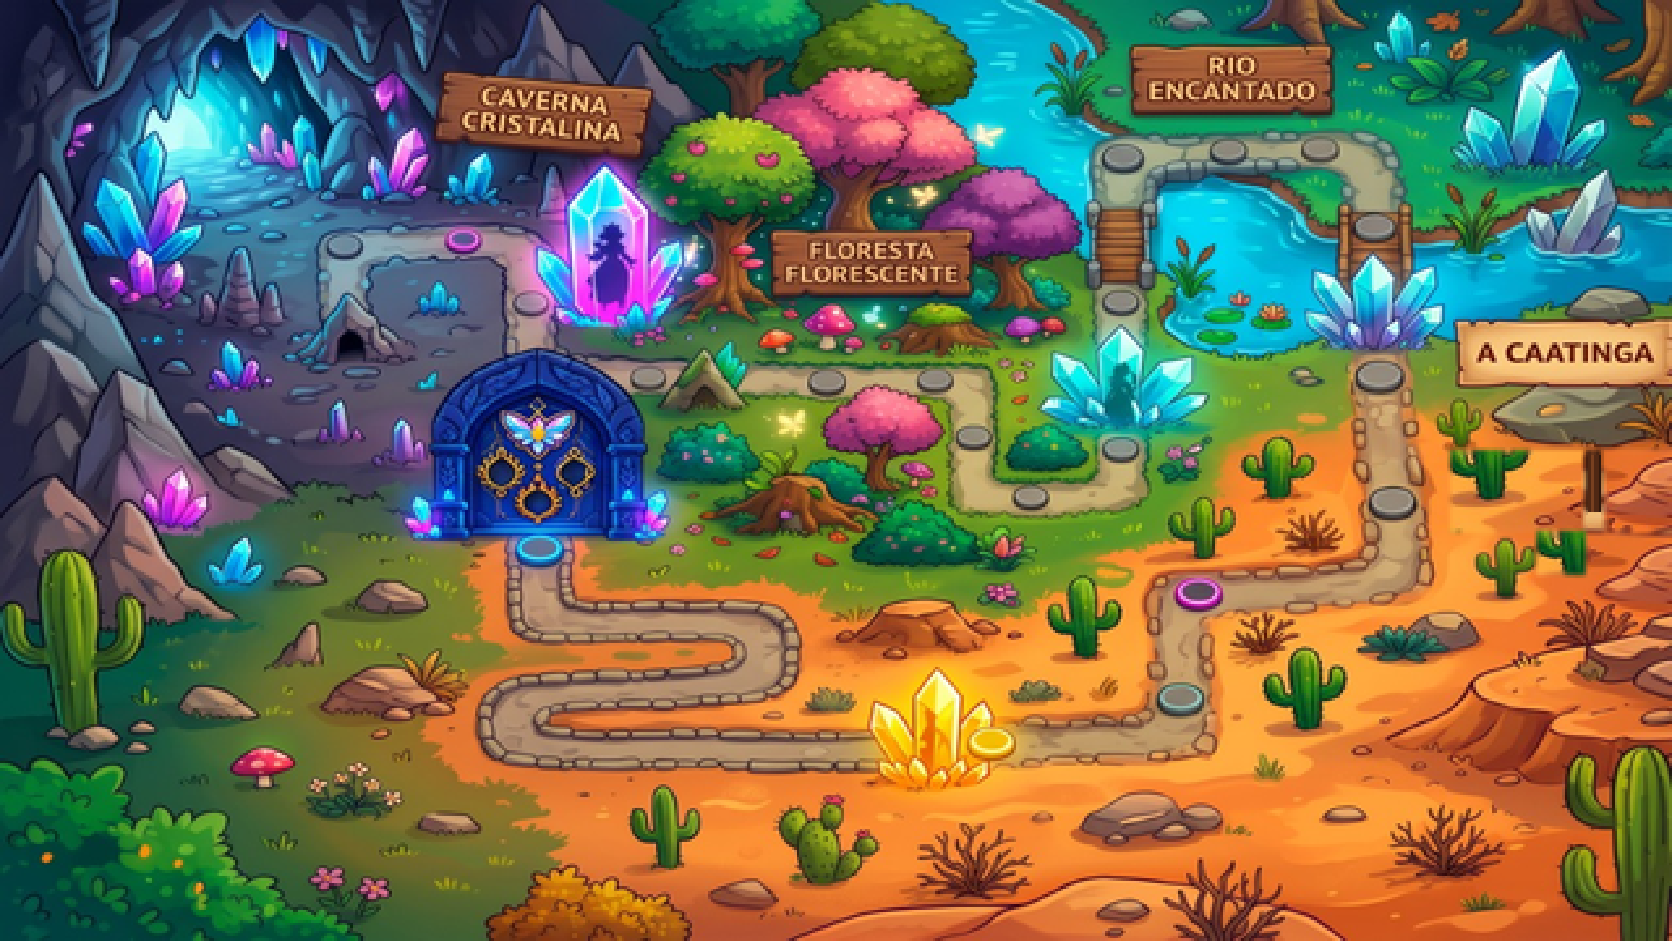
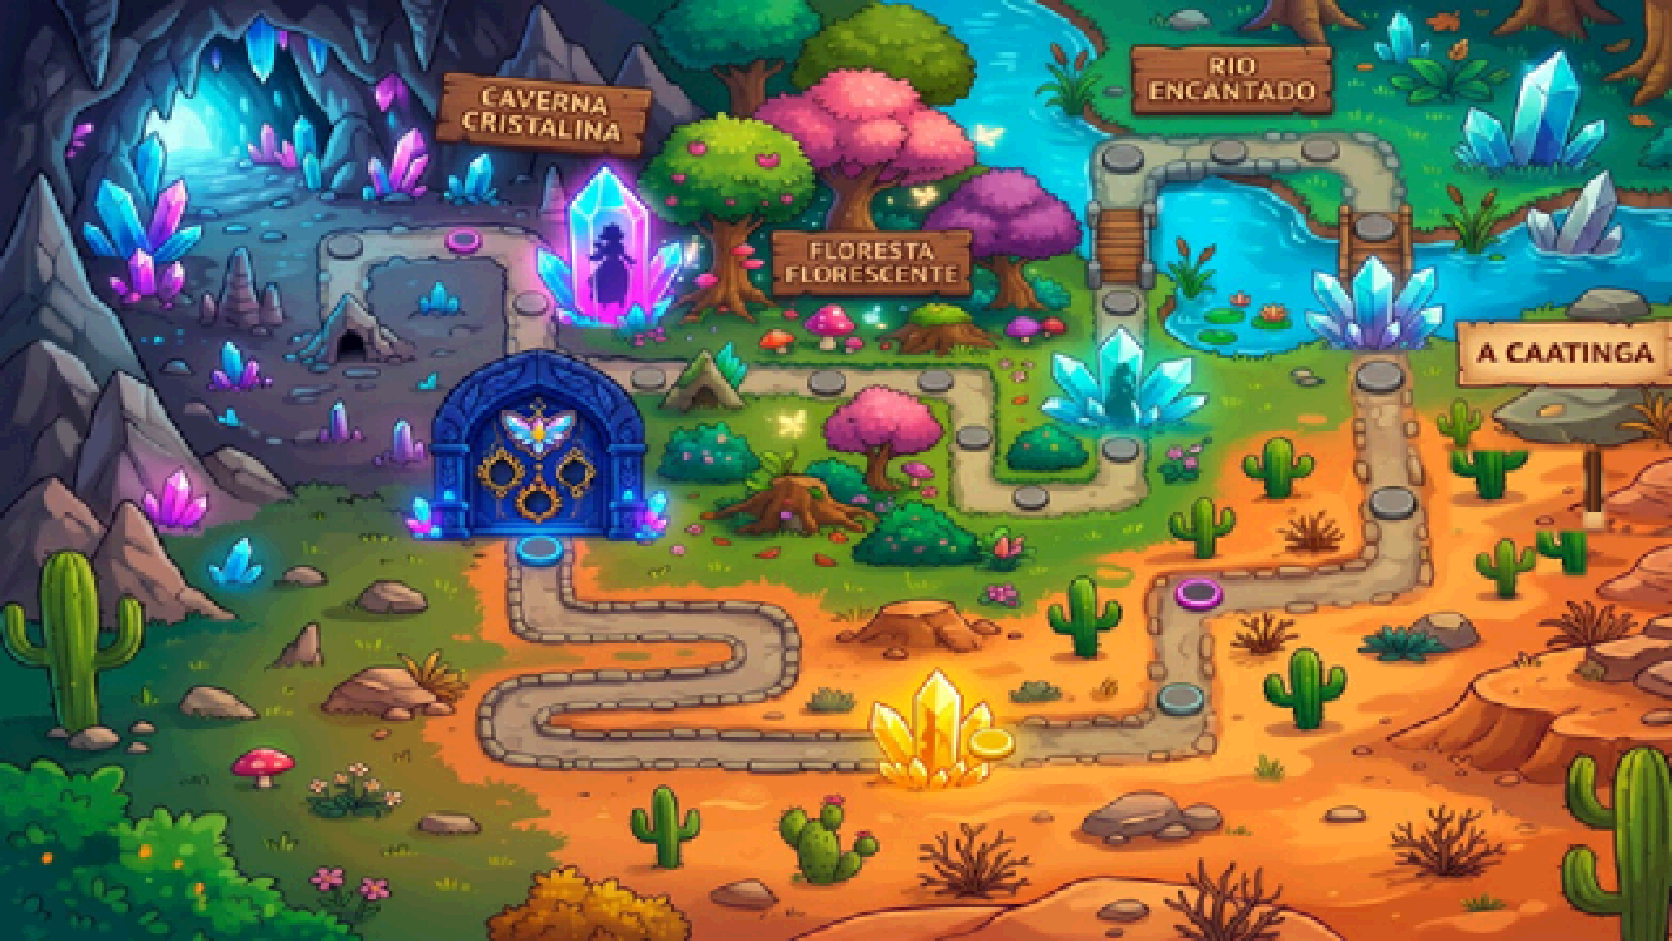
Mapa: remove marcadores e placas duplicadas, cobre tela inteira

diff --git a/css/journey.css b/css/journey.css
@@ -1,6 +1,6 @@
 .map-screen>.map-art,.map-screen>.map-shade,.map-screen>.route-wrap,.map-screen>.world-labels,.map-screen>.map-caption{display:none!important}
 .map-screen{background:#05030f;overflow:hidden;position:relative;width:100vw;height:100dvh}
-.journey-map{position:absolute;width:min(100vw,calc(100dvh * 1.77683));height:min(100dvh,calc(100vw / 1.77683));aspect-ratio:1672/941;left:50%;top:50%;transform:translate(-50%,-50%);background:url('../assets/story/interface-extra/mapa-sem-personagem.png') center/100% 100% no-repeat;image-rendering:pixelated;box-shadow:0 0 40px rgba(0,0,0,0.85)}
+.journey-map{position:absolute;width:max(100vw,calc(100dvh * 1.77683));height:max(100dvh,calc(100vw / 1.77683));aspect-ratio:1672/941;left:50%;top:50%;transform:translate(-50%,-50%);background:url('../assets/story/interface-extra/mapa-sem-personagem.png') center/100% 100% no-repeat;image-rendering:pixelated;box-shadow:0 0 40px rgba(0,0,0,0.85)}
 .journey-node{position:absolute;width:3.1%;min-width:24px;aspect-ratio:1;border:2px solid #a87ffb;border-radius:50%;background:radial-gradient(circle,#4b2685 0%,#1e0e3a 85%);box-shadow:0 0 8px rgba(168,127,251,0.75),inset 0 0 4px rgba(255,255,255,0.35);transform:translate(-50%,-50%);z-index:3;padding:0;pointer-events:auto;cursor:pointer;display:flex;align-items:center;justify-content:center;color:#ffffff;font-family:var(--game-font,'Fredoka',sans-serif);font-size:11px;font-weight:700;transition:transform .12s,box-shadow .12s,border-color .12s}
 .journey-node:before{content:attr(data-level);font-size:10px;font-weight:700;color:#ffffff;text-shadow:1px 1px 1px #000;line-height:1}
 .journey-node:active{transform:translate(-50%,-50%) scale(0.95)}
@@ -18,6 +18,7 @@
 @keyframes node-pulse{from{box-shadow:0 0 8px #ffea31,0 0 3px #fff}to{box-shadow:0 0 18px #ffea31,0 0 8px #fff}}
 .journey-fairy{position:absolute;width:5%;aspect-ratio:1;background:0 0/400% 200% no-repeat;image-rendering:pixelated;transform:translate(-50%,-105%);pointer-events:none;z-index:5;border-radius:45%;will-change:left,top;filter:drop-shadow(0 3px 4px #060b22)}
 .map-screen .screen-bar{position:absolute;top:0;left:0;right:0;z-index:10;pointer-events:none;padding:12px 24px;background:linear-gradient(180deg,rgba(8,15,37,0.78) 0%,rgba(8,15,37,0.3) 70%,transparent 100%)}.map-screen .screen-bar .square-button{pointer-events:auto}
+.map-screen.iris-entering .screen-bar .square-button{pointer-events:none}
 .map-caption{display:none!important}
 .journey-dialog{width:min(580px,94vw);aspect-ratio:1.5;border:0;background:transparent url('../assets/story/interface-extra/paineis-mundos.png') var(--panel-x) var(--panel-y)/200% 200%;padding:0;overflow:hidden;color:#ffffff;font-family:var(--game-font,'Fredoka',sans-serif);filter:drop-shadow(0 0 9px #a278bc);animation:panel-idle 3s ease-in-out infinite alternate}
 .journey-dialog::backdrop{background:#071023c9}
@@ -29,4 +30,4 @@
 .journey-begin{left:18%}.journey-back{right:17%}
 @keyframes panel-idle{to{filter:drop-shadow(0 0 15px #a278bc)}}
 .reduce-motion .journey-dialog{animation:none}
-@media(max-width:600px){.journey-map{width:100vw}.journey-dialog p{font-size:10px}.journey-node{min-width:20px}.map-caption{font-size:12px}}
+@media(max-width:600px){.journey-dialog p{font-size:10px}.journey-node{min-width:20px}.map-caption{font-size:12px}}

diff --git a/scripts/build_true_pixel_map.py b/scripts/build_true_pixel_map.py
@@ -1,4 +1,4 @@
-"""
+"""
 Build True Pixel Art Map for Sinfonia dos Cristais
 Converts the approved concept map into authentic 16-bit True Pixel Art:
 - SNES 15-bit color hardware depth emulation (5-bit RGB steps)
@@ -112,7 +112,7 @@ def render_wooden_plaque(draw, x, y, w, h, text, font_dict):
     ty = y + max(2, (h - 7) // 2)
     draw_pixel_text(draw, text, tx, ty, font_dict, TEXT_COLOR, TEXT_SHADOW)
 
-def process_map(input_path, output_path, native_640_path=None):
+def process_map(input_path, output_path, native_640_path=None, overlays=False):
     print(f"Loading input map: {input_path}")
     raw_img = Image.open(input_path).convert('RGB')
     
@@ -128,170 +128,173 @@ def process_map(input_path, output_path, native_640_path=None):
     draw = ImageDraw.Draw(base_img)
     font_dict = create_pixel_font_renderer()
 
-    # 2. Fix AI bizarreness and enhance fidelity:
-    # -------------------------------------------------------------
-    # 2A. Caatinga Sign Cleanup:
-    # In the concept image, there are two stacked "A CAATINGA" signs on the same pole.
-    # We clean up the lower duplicate sign by blending it into the sandstone cliff,
-    # and render a single crisp authentic wooden plaque for "A CAATINGA".
-    # Coordinates in 640x360:
-    # Upper sign: x ~ 535..615, y ~ 160..195
-    # Lower sign: x ~ 535..615, y ~ 230..265 (duplicate to remove)
+    # Overlays (placas duplicadas, marcadores de pedra, remendos) desativados por padrão:
+    # o mapa limpo usa apenas as placas e o caminho da arte original; os nós são HTML.
+    if overlays:
+        # 2. Fix AI bizarreness and enhance fidelity:
+        # -------------------------------------------------------------
+        # 2A. Caatinga Sign Cleanup:
+        # In the concept image, there are two stacked "A CAATINGA" signs on the same pole.
+        # We clean up the lower duplicate sign by blending it into the sandstone cliff,
+        # and render a single crisp authentic wooden plaque for "A CAATINGA".
+        # Coordinates in 640x360:
+        # Upper sign: x ~ 535..615, y ~ 160..195
+        # Lower sign: x ~ 535..615, y ~ 230..265 (duplicate to remove)
     
-    # Re-blend lower duplicate sign with surrounding terracotta sandstone
-    canyon_color = (192, 112, 56)
-    canyon_dark = (144, 72, 32)
-    canyon_light = (224, 144, 80)
+        # Re-blend lower duplicate sign with surrounding terracotta sandstone
+        canyon_color = (192, 112, 56)
+        canyon_dark = (144, 72, 32)
+        canyon_light = (224, 144, 80)
     
-    # Overwrite the duplicate lower sign with natural rock layers
-    for ly in range(230, 275):
-        # horizontal sandstone strata
-        col = canyon_light if (ly % 7 < 3) else canyon_dark if (ly % 7 == 6) else canyon_color
-        draw.line([540, ly, 615, ly], fill=col)
+        # Overwrite the duplicate lower sign with natural rock layers
+        for ly in range(230, 275):
+            # horizontal sandstone strata
+            col = canyon_light if (ly % 7 < 3) else canyon_dark if (ly % 7 == 6) else canyon_color
+            draw.line([540, ly, 615, ly], fill=col)
     
-    # Add small desert bush/rock where the duplicate sign was
-    draw.ellipse([560, 245, 575, 258], fill=(96, 48, 24), outline=(48, 24, 12))
-    draw.ellipse([585, 250, 602, 262], fill=(160, 88, 40), outline=(80, 40, 16))
+        # Add small desert bush/rock where the duplicate sign was
+        draw.ellipse([560, 245, 575, 258], fill=(96, 48, 24), outline=(48, 24, 12))
+        draw.ellipse([585, 250, 602, 262], fill=(160, 88, 40), outline=(80, 40, 16))
 
-    # Render clean single "A CAATINGA" plaque on top
-    render_wooden_plaque(draw, 542, 162, 78, 16, "A CAATINGA", font_dict)
-    # Wooden support pole
-    draw.rectangle([580, 178, 583, 205], fill=(80, 40, 20), outline=(32, 16, 8))
+        # Render clean single "A CAATINGA" plaque on top
+        render_wooden_plaque(draw, 542, 162, 78, 16, "A CAATINGA", font_dict)
+        # Wooden support pole
+        draw.rectangle([580, 178, 583, 205], fill=(80, 40, 20), outline=(32, 16, 8))
 
-    # 2B. "CAVERNA CRISTALINA" Plaque (Top-Left)
-    # Location: x ~ 165..245, y ~ 34..54
-    render_wooden_plaque(draw, 162, 34, 84, 16, "CAVERNA", font_dict)
-    render_wooden_plaque(draw, 154, 52, 100, 16, "CRISTALINA", font_dict)
+        # 2B. "CAVERNA CRISTALINA" Plaque (Top-Left)
+        # Location: x ~ 165..245, y ~ 34..54
+        render_wooden_plaque(draw, 162, 34, 84, 16, "CAVERNA", font_dict)
+        render_wooden_plaque(draw, 154, 52, 100, 16, "CRISTALINA", font_dict)
 
-    # 2C. "FLORESTA FLORESCENTE" Plaque (Center)
-    # Location: x ~ 290..370, y ~ 112..146
-    render_wooden_plaque(draw, 292, 114, 82, 15, "FLORESTA", font_dict)
-    render_wooden_plaque(draw, 284, 131, 98, 15, "FLORESCENTE", font_dict)
+        # 2C. "FLORESTA FLORESCENTE" Plaque (Center)
+        # Location: x ~ 290..370, y ~ 112..146
+        render_wooden_plaque(draw, 292, 114, 82, 15, "FLORESTA", font_dict)
+        render_wooden_plaque(draw, 284, 131, 98, 15, "FLORESCENTE", font_dict)
 
-    # 2D. "RIO ENCANTADO" Plaque (Top-Right)
-    # Location: x ~ 422..498, y ~ 20..42
-    render_wooden_plaque(draw, 420, 22, 82, 15, "RIO", font_dict)
-    render_wooden_plaque(draw, 412, 39, 98, 15, "ENCANTADO", font_dict)
+        # 2D. "RIO ENCANTADO" Plaque (Top-Right)
+        # Location: x ~ 422..498, y ~ 20..42
+        render_wooden_plaque(draw, 420, 22, 82, 15, "RIO", font_dict)
+        render_wooden_plaque(draw, 412, 39, 98, 15, "ENCANTADO", font_dict)
 
-    # -------------------------------------------------------------
-    # 2E. Silhouette & Anatomical Fidelity:
-    # 1. Fairy silhouette inside Cavern Crystal (x ~ 220..245, y ~ 80..130)
-    # Elegant anatomical fairy with butterfly wings and dress
-    FAIRY_COLOR = (42, 14, 56) # Deep violet shadow
-    fx, fy = 232, 102
-    # Head & hair
-    draw.ellipse([fx - 3, fy - 12, fx + 3, fy - 6], fill=FAIRY_COLOR)
-    # Outspread crystalline wings
-    draw.polygon([(fx, fy - 6), (fx - 12, fy - 16), (fx - 8, fy - 4)], fill=FAIRY_COLOR)
-    draw.polygon([(fx, fy - 6), (fx + 12, fy - 16), (fx + 8, fy - 4)], fill=FAIRY_COLOR)
-    draw.polygon([(fx, fy - 3), (fx - 10, fy + 4), (fx - 4, fy + 2)], fill=FAIRY_COLOR)
-    draw.polygon([(fx, fy - 3), (fx + 10, fy + 4), (fx + 4, fy + 2)], fill=FAIRY_COLOR)
-    # Torso & petal dress
-    draw.polygon([(fx - 2, fy - 5), (fx + 2, fy - 5), (fx + 5, fy + 8), (fx - 5, fy + 8)], fill=FAIRY_COLOR)
-    # Slender legs
-    draw.line([fx - 2, fy + 8, fx - 2, fy + 15], fill=FAIRY_COLOR, width=1)
-    draw.line([fx + 2, fy + 8, fx + 2, fy + 15], fill=FAIRY_COLOR, width=1)
+        # -------------------------------------------------------------
+        # 2E. Silhouette & Anatomical Fidelity:
+        # 1. Fairy silhouette inside Cavern Crystal (x ~ 220..245, y ~ 80..130)
+        # Elegant anatomical fairy with butterfly wings and dress
+        FAIRY_COLOR = (42, 14, 56) # Deep violet shadow
+        fx, fy = 232, 102
+        # Head & hair
+        draw.ellipse([fx - 3, fy - 12, fx + 3, fy - 6], fill=FAIRY_COLOR)
+        # Outspread crystalline wings
+        draw.polygon([(fx, fy - 6), (fx - 12, fy - 16), (fx - 8, fy - 4)], fill=FAIRY_COLOR)
+        draw.polygon([(fx, fy - 6), (fx + 12, fy - 16), (fx + 8, fy - 4)], fill=FAIRY_COLOR)
+        draw.polygon([(fx, fy - 3), (fx - 10, fy + 4), (fx - 4, fy + 2)], fill=FAIRY_COLOR)
+        draw.polygon([(fx, fy - 3), (fx + 10, fy + 4), (fx + 4, fy + 2)], fill=FAIRY_COLOR)
+        # Torso & petal dress
+        draw.polygon([(fx - 2, fy - 5), (fx + 2, fy - 5), (fx + 5, fy + 8), (fx - 5, fy + 8)], fill=FAIRY_COLOR)
+        # Slender legs
+        draw.line([fx - 2, fy + 8, fx - 2, fy + 15], fill=FAIRY_COLOR, width=1)
+        draw.line([fx + 2, fy + 8, fx + 2, fy + 15], fill=FAIRY_COLOR, width=1)
 
-    # 2. Guardian Nymph silhouette inside Forest Cyan Crystal (x ~ 410..435, y ~ 170..215)
-    NYMPH_COLOR = (14, 48, 64) # Deep teal shadow
-    nx, ny = 422, 192
-    draw.ellipse([nx - 3, ny - 10, nx + 3, ny - 4], fill=NYMPH_COLOR)
-    draw.polygon([(nx - 2, ny - 4), (nx + 2, ny - 4), (nx + 4, ny + 9), (nx - 4, ny + 9)], fill=NYMPH_COLOR)
-    draw.line([nx - 2, ny + 9, nx - 2, ny + 15], fill=NYMPH_COLOR, width=1)
-    draw.line([nx + 2, ny + 9, nx + 2, ny + 15], fill=NYMPH_COLOR, width=1)
+        # 2. Guardian Nymph silhouette inside Forest Cyan Crystal (x ~ 410..435, y ~ 170..215)
+        NYMPH_COLOR = (14, 48, 64) # Deep teal shadow
+        nx, ny = 422, 192
+        draw.ellipse([nx - 3, ny - 10, nx + 3, ny - 4], fill=NYMPH_COLOR)
+        draw.polygon([(nx - 2, ny - 4), (nx + 2, ny - 4), (nx + 4, ny + 9), (nx - 4, ny + 9)], fill=NYMPH_COLOR)
+        draw.line([nx - 2, ny + 9, nx - 2, ny + 15], fill=NYMPH_COLOR, width=1)
+        draw.line([nx + 2, ny + 9, nx + 2, ny + 15], fill=NYMPH_COLOR, width=1)
 
-    # -------------------------------------------------------------
-    # 2F. Porta Ancestral Symmetry & Golden Crest:
-    # Location: x ~ 195, y ~ 230
-    px, py = 197, 230
-    # Winged Butterfly Fairy Gem on top of the arch
-    BUTTERFLY_GOLD = (248, 208, 64)
-    BUTTERFLY_CYAN = (96, 224, 255)
-    BUTTERFLY_MAGENTA = (255, 128, 224)
-    DOOR_BLUE = (32, 48, 128)
-    DOOR_OUTLINE = (12, 16, 48)
+        # -------------------------------------------------------------
+        # 2F. Porta Ancestral Symmetry & Golden Crest:
+        # Location: x ~ 195, y ~ 230
+        px, py = 197, 230
+        # Winged Butterfly Fairy Gem on top of the arch
+        BUTTERFLY_GOLD = (248, 208, 64)
+        BUTTERFLY_CYAN = (96, 224, 255)
+        BUTTERFLY_MAGENTA = (255, 128, 224)
+        DOOR_BLUE = (32, 48, 128)
+        DOOR_OUTLINE = (12, 16, 48)
 
-    # Golden filigree frame
-    draw.polygon([(px, py - 20), (px - 14, py - 28), (px - 10, py - 14)], fill=BUTTERFLY_GOLD, outline=DOOR_OUTLINE)
-    draw.polygon([(px, py - 20), (px + 14, py - 28), (px + 10, py - 14)], fill=BUTTERFLY_GOLD, outline=DOOR_OUTLINE)
-    draw.polygon([(px, py - 18), (px - 10, py - 10), (px - 4, py - 12)], fill=BUTTERFLY_GOLD, outline=DOOR_OUTLINE)
-    draw.polygon([(px, py - 18), (px + 10, py - 10), (px + 4, py - 12)], fill=BUTTERFLY_GOLD, outline=DOOR_OUTLINE)
-    # Wing gemstone fills
-    draw.ellipse([px - 10, py - 24, px - 4, py - 18], fill=BUTTERFLY_CYAN)
-    draw.ellipse([px + 4, py - 24, px + 10, py - 18], fill=BUTTERFLY_CYAN)
-    draw.ellipse([px - 8, py - 16, px - 3, py - 11], fill=BUTTERFLY_MAGENTA)
-    draw.ellipse([px + 3, py - 16, px + 8, py - 11], fill=BUTTERFLY_MAGENTA)
-    # Center golden gem body
-    draw.ellipse([px - 2, py - 22, px + 2, py - 14], fill=(255, 255, 255), outline=BUTTERFLY_GOLD)
+        # Golden filigree frame
+        draw.polygon([(px, py - 20), (px - 14, py - 28), (px - 10, py - 14)], fill=BUTTERFLY_GOLD, outline=DOOR_OUTLINE)
+        draw.polygon([(px, py - 20), (px + 14, py - 28), (px + 10, py - 14)], fill=BUTTERFLY_GOLD, outline=DOOR_OUTLINE)
+        draw.polygon([(px, py - 18), (px - 10, py - 10), (px - 4, py - 12)], fill=BUTTERFLY_GOLD, outline=DOOR_OUTLINE)
+        draw.polygon([(px, py - 18), (px + 10, py - 10), (px + 4, py - 12)], fill=BUTTERFLY_GOLD, outline=DOOR_OUTLINE)
+        # Wing gemstone fills
+        draw.ellipse([px - 10, py - 24, px - 4, py - 18], fill=BUTTERFLY_CYAN)
+        draw.ellipse([px + 4, py - 24, px + 10, py - 18], fill=BUTTERFLY_CYAN)
+        draw.ellipse([px - 8, py - 16, px - 3, py - 11], fill=BUTTERFLY_MAGENTA)
+        draw.ellipse([px + 3, py - 16, px + 8, py - 11], fill=BUTTERFLY_MAGENTA)
+        # Center golden gem body
+        draw.ellipse([px - 2, py - 22, px + 2, py - 14], fill=(255, 255, 255), outline=BUTTERFLY_GOLD)
 
-    # Three primordial sockets beneath butterfly
-    for sx, sy in [(px - 8, py - 6), (px + 8, py - 6), (px, py + 4)]:
-        draw.ellipse([sx - 4, sy - 4, sx + 4, sy + 4], fill=(16, 24, 64), outline=BUTTERFLY_GOLD)
+        # Three primordial sockets beneath butterfly
+        for sx, sy in [(px - 8, py - 6), (px + 8, py - 6), (px, py + 4)]:
+            draw.ellipse([sx - 4, sy - 4, sx + 4, sy + 4], fill=(16, 24, 64), outline=BUTTERFLY_GOLD)
 
-    # Circular Glowing Pedestal at Door Base (Node 21)
-    PEDESTAL_CYAN = (64, 224, 255)
-    draw.ellipse([px - 12, py + 38, px + 12, py + 46], fill=(16, 32, 80), outline=PEDESTAL_CYAN)
-    draw.ellipse([px - 8, py + 40, px + 8, py + 44], fill=PEDESTAL_CYAN)
+        # Circular Glowing Pedestal at Door Base (Node 21)
+        PEDESTAL_CYAN = (64, 224, 255)
+        draw.ellipse([px - 12, py + 38, px + 12, py + 46], fill=(16, 32, 80), outline=PEDESTAL_CYAN)
+        draw.ellipse([px - 8, py + 40, px + 8, py + 44], fill=PEDESTAL_CYAN)
 
-    # -------------------------------------------------------------
-    # 2G. Circular Path Stepping-Stone Nodes:
-    # Render crisp circular stone nodes with 3D bevel & dark outline
-    # ensuring perfect round geometry (zero non-anatomical warping)
-    STONE_OUTLINE = (40, 44, 52)
-    STONE_SHADOW = (72, 80, 92)
-    STONE_MID = (128, 136, 148)
-    STONE_HIGHLIGHT = (192, 200, 212)
-    PURPLE_RING = (192, 64, 224)
-    GOLD_COIN = (255, 208, 48)
+        # -------------------------------------------------------------
+        # 2G. Circular Path Stepping-Stone Nodes:
+        # Render crisp circular stone nodes with 3D bevel & dark outline
+        # ensuring perfect round geometry (zero non-anatomical warping)
+        STONE_OUTLINE = (40, 44, 52)
+        STONE_SHADOW = (72, 80, 92)
+        STONE_MID = (128, 136, 148)
+        STONE_HIGHLIGHT = (192, 200, 212)
+        PURPLE_RING = (192, 64, 224)
+        GOLD_COIN = (255, 208, 48)
 
-    # Key node centers mapped in 640x360 coordinates:
-    nodes = [
-        # Caverna
-        (178, 92, 'purple'),   # Node 1
-        (128, 96, 'stone'),    # Node 2
-        (128, 126, 'stone'),   # Node 3
-        (162, 140, 'stone'),   # Node 4
-        (206, 140, 'stone'),   # Node 5
-        # Floresta
-        (262, 190, 'stone'),   # Node 6
-        (309, 190, 'stone'),   # Node 7
-        (350, 190, 'stone'),   # Node 8
-        (362, 218, 'stone'),   # Node 9
-        (418, 222, 'stone'),   # Node 10
-        # Rio
-        (418, 118, 'bridge'),  # Node 11
-        (418, 78, 'stone'),    # Node 12
-        (456, 75, 'stone'),    # Node 13
-        (494, 75, 'stone'),    # Node 14
-        (512, 115, 'bridge'),  # Node 15
-        # Caatinga
-        (516, 185, 'stone'),   # Node 16
-        (519, 248, 'stone'),   # Node 17
-        (453, 292, 'purple'),  # Node 18
-        (440, 345, 'stone'),   # Node 19 (curves toward citrine)
-        (360, 368, 'gold'),    # Node 20 (beside Citrine)
-    ]
+        # Key node centers mapped in 640x360 coordinates:
+        nodes = [
+            # Caverna
+            (178, 92, 'purple'),   # Node 1
+            (128, 96, 'stone'),    # Node 2
+            (128, 126, 'stone'),   # Node 3
+            (162, 140, 'stone'),   # Node 4
+            (206, 140, 'stone'),   # Node 5
+            # Floresta
+            (262, 190, 'stone'),   # Node 6
+            (309, 190, 'stone'),   # Node 7
+            (350, 190, 'stone'),   # Node 8
+            (362, 218, 'stone'),   # Node 9
+            (418, 222, 'stone'),   # Node 10
+            # Rio
+            (418, 118, 'bridge'),  # Node 11
+            (418, 78, 'stone'),    # Node 12
+            (456, 75, 'stone'),    # Node 13
+            (494, 75, 'stone'),    # Node 14
+            (512, 115, 'bridge'),  # Node 15
+            # Caatinga
+            (516, 185, 'stone'),   # Node 16
+            (519, 248, 'stone'),   # Node 17
+            (453, 292, 'purple'),  # Node 18
+            (440, 345, 'stone'),   # Node 19 (curves toward citrine)
+            (360, 368, 'gold'),    # Node 20 (beside Citrine)
+        ]
 
-    for nx, ny, ntype in nodes:
-        if ny > 356:
-            ny = 352
-        r = 6
-        if ntype == 'purple':
-            draw.ellipse([nx - r - 1, ny - r - 1, nx + r + 1, ny + r + 1], fill=(48, 16, 64), outline=PURPLE_RING)
-            draw.ellipse([nx - r + 2, ny - r + 2, nx + r - 2, ny + r - 2], fill=PURPLE_RING)
-        elif ntype == 'gold':
-            draw.ellipse([nx - r, ny - r, nx + r, ny + r], fill=(160, 112, 16), outline=(64, 40, 8))
-            draw.ellipse([nx - r + 1, ny - r + 1, nx + r - 1, ny + r - 1], fill=GOLD_COIN)
-            draw.ellipse([nx - 2, ny - 2, nx + 2, ny + 2], fill=(255, 240, 160))
-        elif ntype == 'bridge':
-            # Bridge stone / wooden marker
-            draw.ellipse([nx - r, ny - r, nx + r, ny + r], fill=STONE_SHADOW, outline=STONE_OUTLINE)
-            draw.ellipse([nx - r + 1, ny - r + 1, nx + r - 1, ny + r - 1], fill=STONE_MID)
-            draw.arc([nx - r + 1, ny - r + 1, nx + r - 1, ny + r - 1], 180, 360, fill=STONE_HIGHLIGHT)
-        else: # stone
-            draw.ellipse([nx - r, ny - r, nx + r, ny + r], fill=STONE_SHADOW, outline=STONE_OUTLINE)
-            draw.ellipse([nx - r + 1, ny - r + 1, nx + r - 1, ny + r - 1], fill=STONE_MID)
-            draw.arc([nx - r + 1, ny - r + 1, nx + r - 1, ny + r - 1], 180, 360, fill=STONE_HIGHLIGHT)
+        for nx, ny, ntype in nodes:
+            if ny > 356:
+                ny = 352
+            r = 6
+            if ntype == 'purple':
+                draw.ellipse([nx - r - 1, ny - r - 1, nx + r + 1, ny + r + 1], fill=(48, 16, 64), outline=PURPLE_RING)
+                draw.ellipse([nx - r + 2, ny - r + 2, nx + r - 2, ny + r - 2], fill=PURPLE_RING)
+            elif ntype == 'gold':
+                draw.ellipse([nx - r, ny - r, nx + r, ny + r], fill=(160, 112, 16), outline=(64, 40, 8))
+                draw.ellipse([nx - r + 1, ny - r + 1, nx + r - 1, ny + r - 1], fill=GOLD_COIN)
+                draw.ellipse([nx - 2, ny - 2, nx + 2, ny + 2], fill=(255, 240, 160))
+            elif ntype == 'bridge':
+                # Bridge stone / wooden marker
+                draw.ellipse([nx - r, ny - r, nx + r, ny + r], fill=STONE_SHADOW, outline=STONE_OUTLINE)
+                draw.ellipse([nx - r + 1, ny - r + 1, nx + r - 1, ny + r - 1], fill=STONE_MID)
+                draw.arc([nx - r + 1, ny - r + 1, nx + r - 1, ny + r - 1], 180, 360, fill=STONE_HIGHLIGHT)
+            else: # stone
+                draw.ellipse([nx - r, ny - r, nx + r, ny + r], fill=STONE_SHADOW, outline=STONE_OUTLINE)
+                draw.ellipse([nx - r + 1, ny - r + 1, nx + r - 1, ny + r - 1], fill=STONE_MID)
+                draw.arc([nx - r + 1, ny - r + 1, nx + r - 1, ny + r - 1], 180, 360, fill=STONE_HIGHLIGHT)
 
     # -------------------------------------------------------------
     # 3. 16-Bit Hardware Emulation (SNES 15-bit color quantization)
@@ -324,7 +327,10 @@ def process_map(input_path, output_path, native_640_path=None):
     return final_map
 
 if __name__ == '__main__':
-    src = r'C:/Users/heito/.gemini/antigravity/brain/ff81cc51-94f1-4ff4-8742-75d5959d8ae0/.user_uploaded/media_1793737723414_7c18663f.jpg'
-    out = r'assets/story/interface-extra/mapa-sem-personagem.png'
-    native = r'assets/story/interface-extra/mapa-true-pixel-native-640x360.png'
-    process_map(src, out, native)
+    src = sys.argv[1] if len(sys.argv) > 1 else r'assets/story/interface-extra/mapa-sem-personagem.png'
+    out = sys.argv[2] if len(sys.argv) > 2 else r'assets/story/interface-extra/mapa-sem-personagem.png'
+    native = sys.argv[3] if len(sys.argv) > 3 else r'assets/story/interface-extra/mapa-true-pixel-native-640x360.png'
+    if os.path.exists(src):
+        process_map(src, out, native)
+    else:
+        print(f"File not found: {src}")
